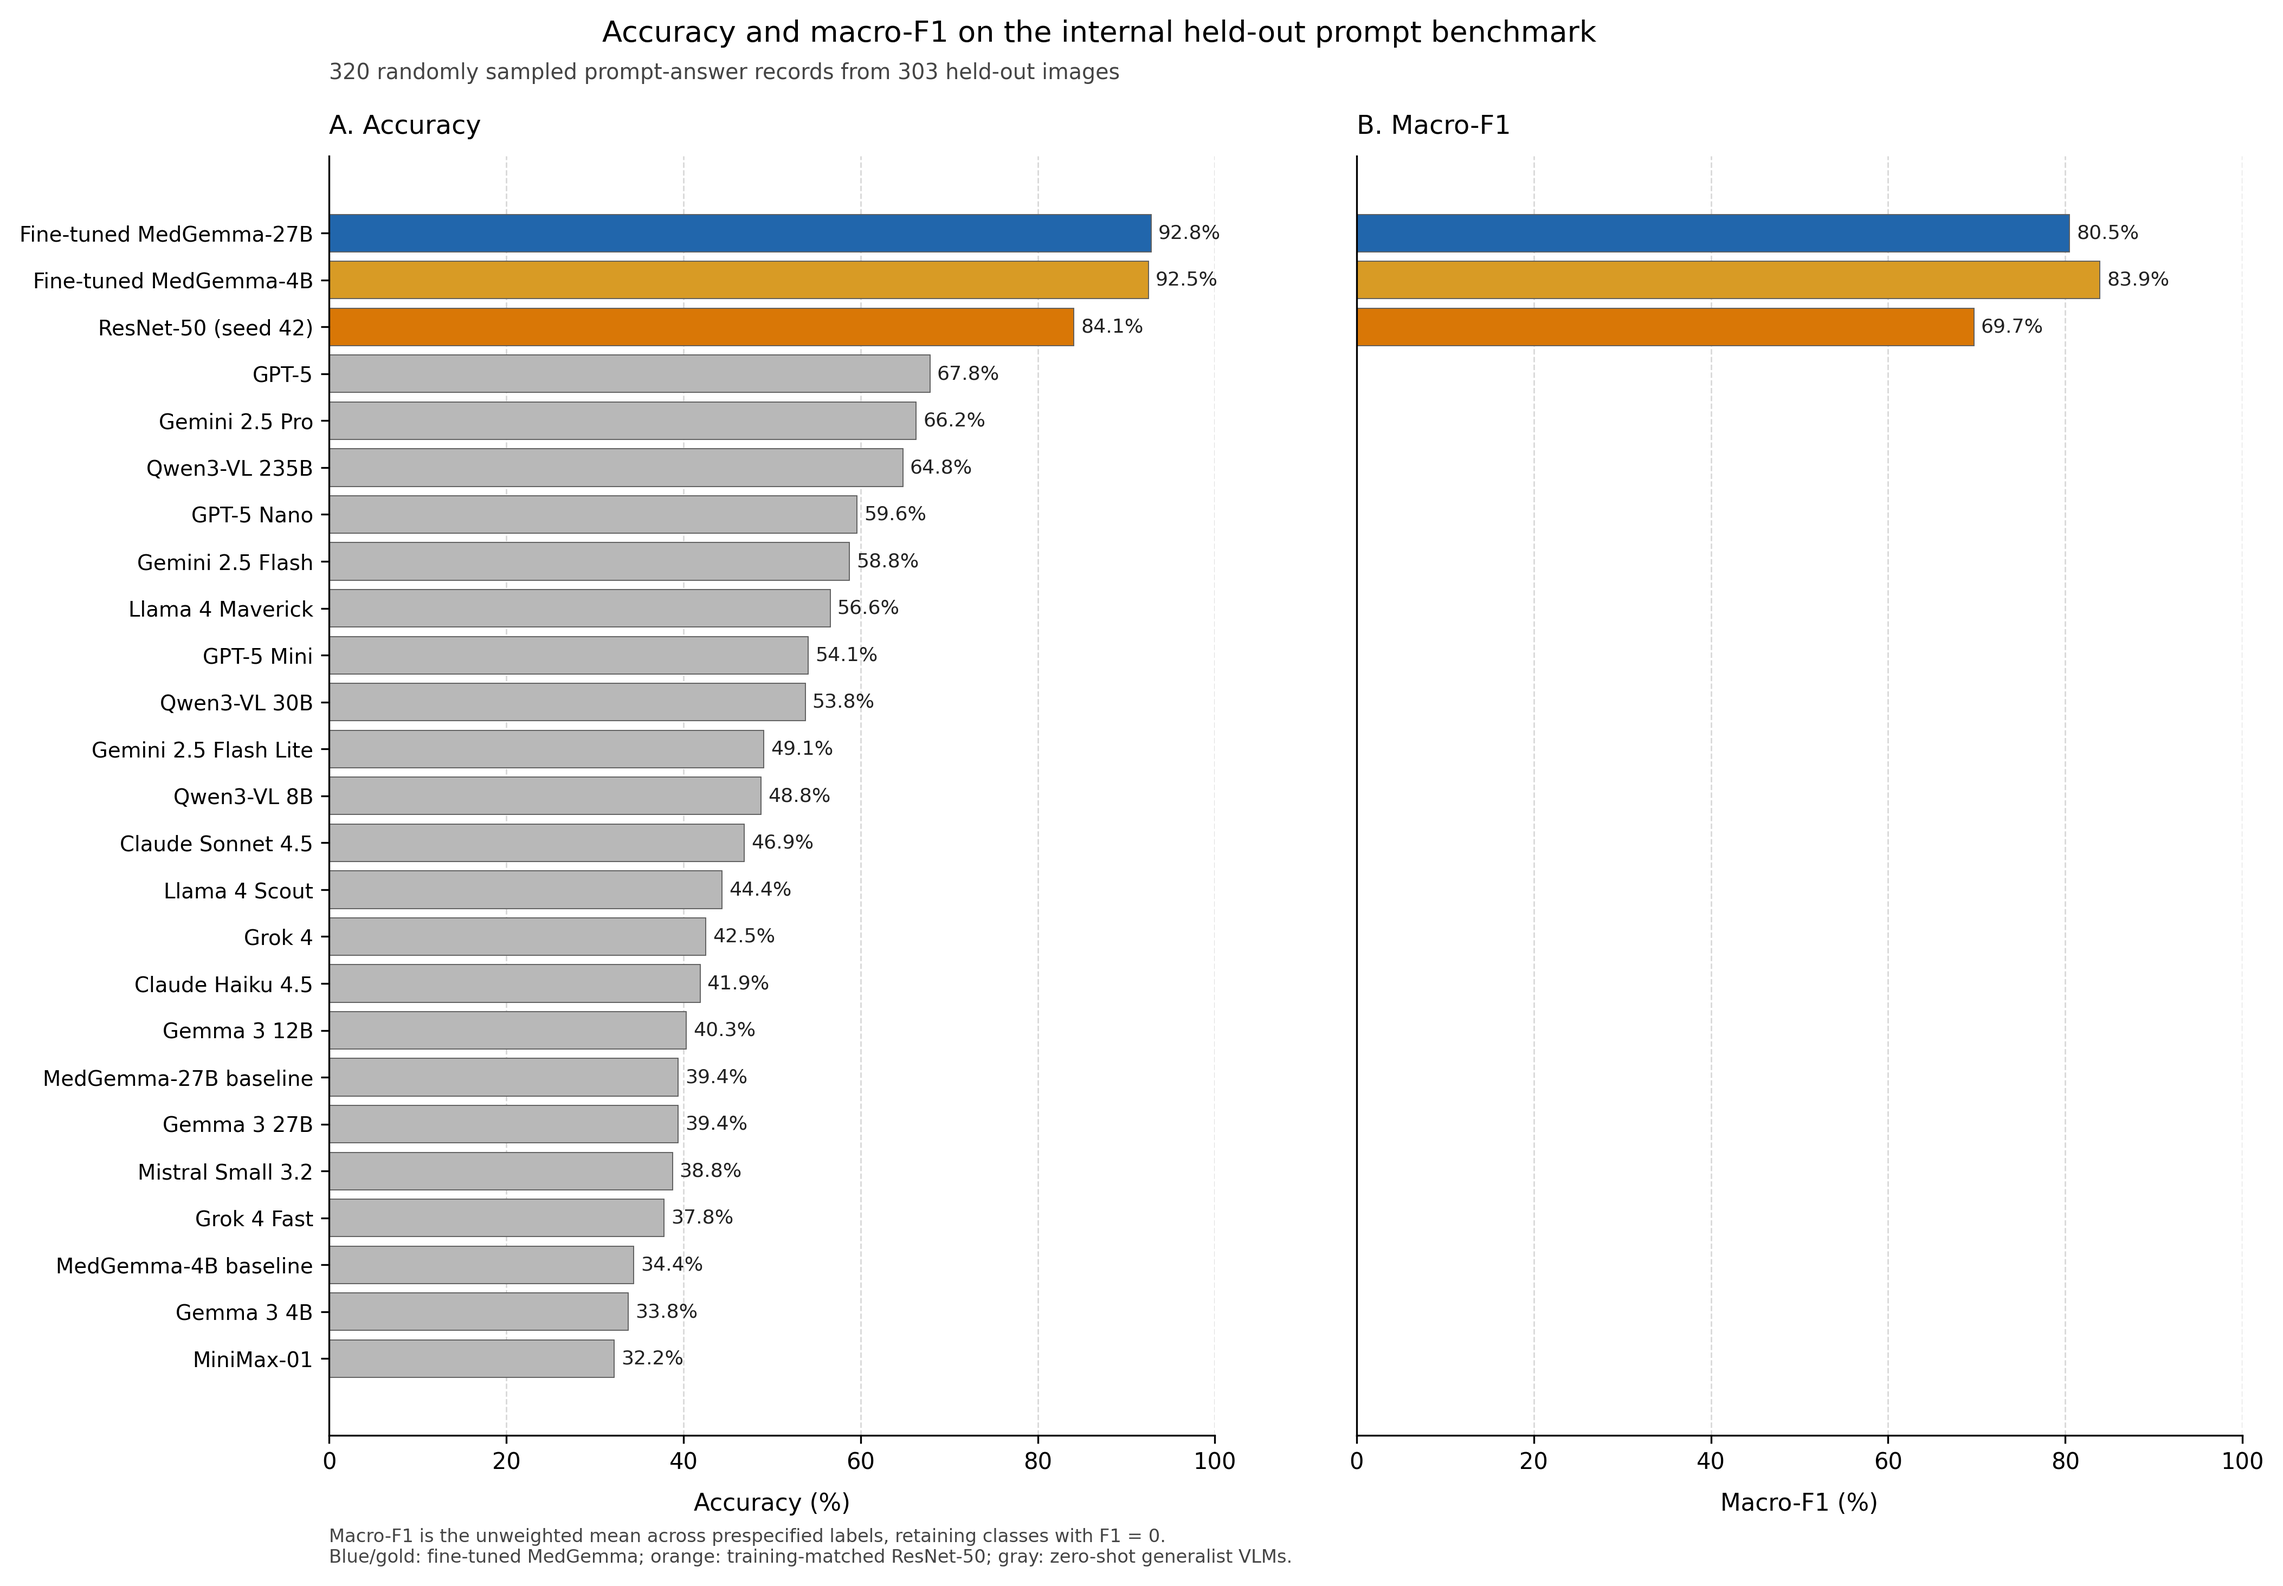
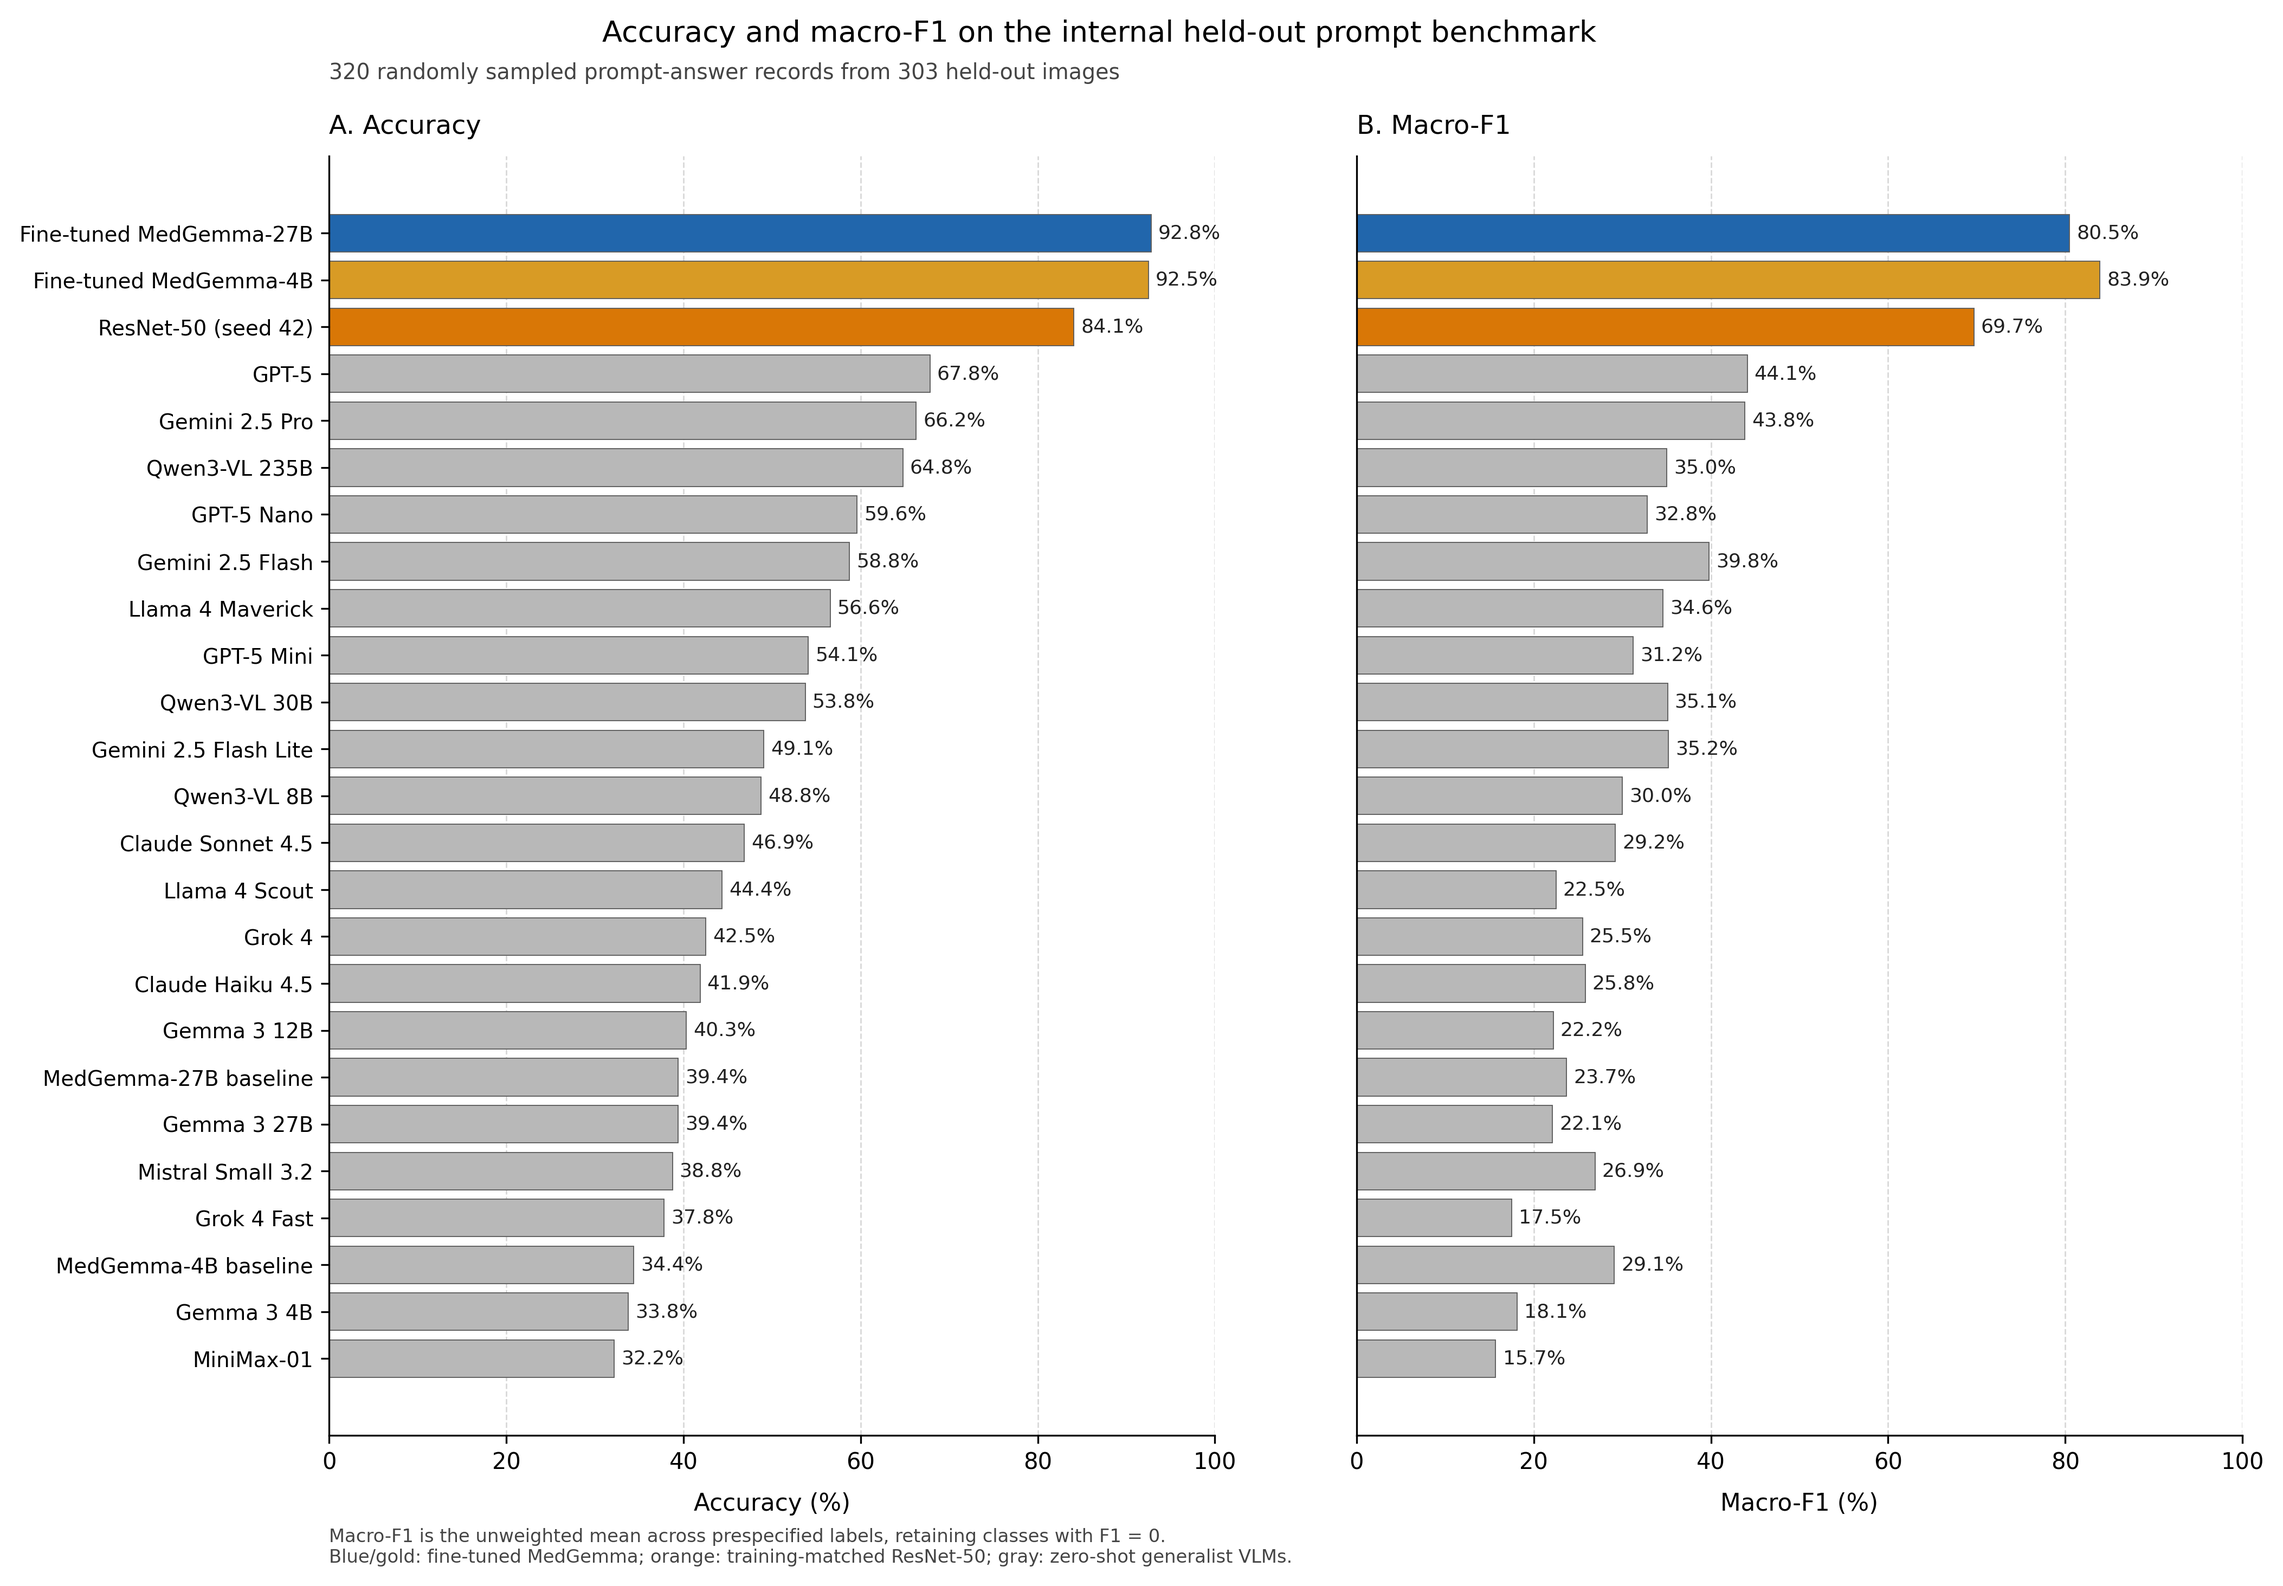
Fix benchmark macro-F1 panel

Changed region(s): [[0.5909, 0.2176, 0.7775, 0.8705]]

diff --git a/scripts/generate_final_figures.py b/scripts/generate_final_figures.py
@@ -12,12 +12,12 @@ COLORS={"Fine-tuned MedGemma-27B":"#2166AC","Fine-tuned MedGemma-4B":"#D89B25","
 
 def benchmark(data,out):
     frame=pd.read_csv(data/'benchmark_metrics.csv').sort_values(['accuracy','model'])
+    if frame[['accuracy','macro_f1']].isna().any().any(): raise ValueError('Benchmark accuracy and macro-F1 must be complete for all models')
     labels=frame.model.tolist(); y=np.arange(len(frame)); colors=[COLORS.get(x,'#B8B8B8') for x in labels]
     fig,axes=plt.subplots(1,2,figsize=(14.8,9.9),sharey=True,facecolor='white')
     for ax,values,xlabel,title in ((axes[0],frame.accuracy.to_numpy()*100,'Accuracy (%)','A. Accuracy'),(axes[1],frame.macro_f1.to_numpy()*100,'Macro-F1 (%)','B. Macro-F1')):
         bars=ax.barh(y,values,color=colors,edgecolor='#5D5D5D',linewidth=.45); ax.set_xlim(0,100); ax.set_xlabel(xlabel,fontsize=10.5,labelpad=8); ax.set_title(title,fontsize=11.5,loc='left',pad=10); ax.xaxis.grid(True,color='#D8D8D8',linewidth=.65,linestyle='--'); ax.set_axisbelow(True); ax.spines[['top','right']].set_visible(False)
-        for bar,value in zip(bars,values):
-            if np.isfinite(value): ax.text(min(value+.8,98.5),bar.get_y()+bar.get_height()/2,f'{value:.1f}%',va='center',ha='left' if value<97 else 'right',fontsize=8.7,color='#222222')
+        for bar,value in zip(bars,values): ax.text(min(value+.8,98.5),bar.get_y()+bar.get_height()/2,f'{value:.1f}%',va='center',ha='left' if value<97 else 'right',fontsize=8.7,color='#222222')
     axes[0].set_yticks(y,labels,fontsize=9.3); axes[1].tick_params(axis='y',left=False,labelleft=False)
     fig.suptitle('Accuracy and macro-F1 on the internal held-out prompt benchmark',fontsize=13,y=.985); fig.text(.18,.948,'320 randomly sampled prompt-answer records from 303 held-out images',fontsize=9.5,color='#444444'); fig.text(.18,.026,'Macro-F1 is the unweighted mean across prespecified labels, retaining classes with F1 = 0.\nBlue/gold: fine-tuned MedGemma; orange: training-matched ResNet-50; gray: zero-shot generalist VLMs.',fontsize=8.1,color='#444444'); fig.subplots_adjust(left=.18,right=.975,top=.90,bottom=.105,wspace=.16); fig.savefig(out/'benchmark_accuracy_macro_f1.png',dpi=300,bbox_inches='tight',pad_inches=.12,facecolor='white'); plt.close(fig)
 

diff --git a/scripts/validate_reported_results.py b/scripts/validate_reported_results.py
@@ -8,7 +8,7 @@ def close(actual,expected,label,tol=5e-4):
     if not np.isclose(actual,expected,rtol=0,atol=tol): raise AssertionError(f'{label}: expected {expected}, found {actual}')
 def main():
     parser=argparse.ArgumentParser(); parser.add_argument('--data-dir',type=Path,default=Path('data/aggregate')); args=parser.parse_args(); data=args.data_dir
-    benchmark=pd.read_csv(data/'benchmark_metrics.csv'); assert len(benchmark)==25 and benchmark.model.nunique()==25
+    benchmark=pd.read_csv(data/'benchmark_metrics.csv'); assert len(benchmark)==25 and benchmark.model.nunique()==25; assert benchmark[['accuracy','macro_f1']].notna().all().all(); assert benchmark[['accuracy','macro_f1']].apply(lambda column: column.between(0,1).all()).all()
     expected={'Fine-tuned MedGemma-27B':(.928125,.805),'Fine-tuned MedGemma-4B':(.925,.839),'ResNet-50 (seed 42)':(.840625,.6969699842167872)}
     for model,(accuracy,macro_f1) in expected.items():
         row=benchmark[benchmark.model.eq(model)].iloc[0]; close(row.accuracy,accuracy,f'{model} accuracy'); close(row.macro_f1,macro_f1,f'{model} macro-F1'); close(row.evaluable_count,320,f'{model} evaluable count',0)

diff --git a/tests/test_release.py b/tests/test_release.py
@@ -5,6 +5,7 @@ ROOT=Path(__file__).resolve().parents[1]
 SPEC=importlib.util.spec_from_file_location('record_analysis',ROOT/'scripts/analyze_record_predictions.py')
 record_analysis=importlib.util.module_from_spec(SPEC); SPEC.loader.exec_module(record_analysis)
 def test_reported_results(): subprocess.run([sys.executable,str(ROOT/'scripts/validate_reported_results.py'),'--data-dir',str(ROOT/'data/aggregate')],check=True)
+def test_benchmark_metrics_are_complete(): assert pd.read_csv(ROOT/'data/aggregate/benchmark_metrics.csv')[['accuracy','macro_f1']].notna().all().all()
 def test_summary_tables(tmp_path):
     subprocess.run([sys.executable,str(ROOT/'scripts/generate_summary_tables.py'),'--data-dir',str(ROOT/'data/aggregate'),'--output-dir',str(tmp_path)],check=True)
     assert {path.name for path in tmp_path.glob('*.csv')} == {'benchmark_model_metrics.csv','paired_accuracy_comparisons.csv','resnet50_confidence_intervals.csv','resnet50_three_seed_summary.csv'}
